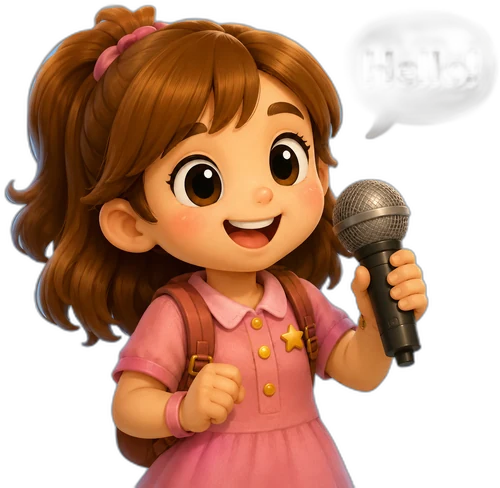
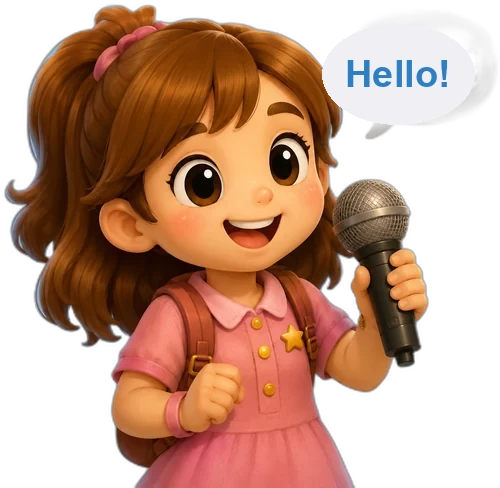
guide微調:slide1 5人放大拉開間距+右下換MissVega縮小;slide2加標題2+圖示下拉放大+副標+Speak泡泡Hello+MissVega講話;slide3 coco縮小+泡泡離開Ruby;重整記住當前slide(sessionStorage);多比例本機驗證

Changed region(s): [[0.63, 0.0922, 0.9, 0.2152], [0.75, 0.2459, 0.78, 0.2766]]

diff --git a/src/app/guide/GuideSlides.tsx b/src/app/guide/GuideSlides.tsx
@@ -1,5 +1,5 @@
 'use client';
-import { useState, useRef } from 'react';
+import { useState, useRef, useEffect } from 'react';
 import Link from 'next/link';
 import { useRouter } from 'next/navigation';
 import { playClick, playStar } from '@/lib/sfx';
@@ -10,11 +10,11 @@ const N = HEIGHTS.length;
 
 // slide 3「認識夥伴」：5 隻動物依序放進 紫/藍/粉/綠/黃 框
 const FRIENDS = [
-  { key: 'finn',  name: 'Finn',  trait: '勇敢探險隊長', cx: 16.6 },
-  { key: 'coco',  name: 'Coco',  trait: '聽力小高手',   cx: 32.5 },
-  { key: 'polly', name: 'Polly', trait: '口說小達人',   cx: 48.3 },
-  { key: 'benny', name: 'Benny', trait: '閱讀小博士',   cx: 64.0 },
-  { key: 'ruby',  name: 'Ruby',  trait: '寫作小天才',   cx: 79.9 },
+  { key: 'finn',  name: 'Finn',  trait: '勇敢探險隊長', cx: 16.6, sc: 1 },
+  { key: 'coco',  name: 'Coco',  trait: '聽力小高手',   cx: 32.5, sc: 0.86 },
+  { key: 'polly', name: 'Polly', trait: '口說小達人',   cx: 48.3, sc: 1 },
+  { key: 'benny', name: 'Benny', trait: '閱讀小博士',   cx: 64.0, sc: 1 },
+  { key: 'ruby',  name: 'Ruby',  trait: '寫作小天才',   cx: 79.9, sc: 1 },
 ];
 
 // slide 2「How You'll Learn」：4 個學習步驟圖示進框
@@ -27,17 +27,26 @@ const STEPS = [
 
 // slide 1「Welcome」：中間站 5 個玩家角色（人類），混一些 happy 表情
 const PLAYERS = [
-  { slug: 'elly', pose: '-happy', cx: 36 },
-  { slug: 'sky',  pose: '',       cx: 44 },
+  { slug: 'elly', pose: '-happy', cx: 30 },
+  { slug: 'sky',  pose: '',       cx: 41 },
   { slug: 'coco', pose: '-happy', cx: 52 },
-  { slug: 'leo',  pose: '',       cx: 60 },
-  { slug: 'vera', pose: '-happy', cx: 68 },
+  { slug: 'leo',  pose: '',       cx: 63 },
+  { slug: 'vera', pose: '-happy', cx: 74 },
 ];
 
 export default function GuideSlides() {
   const [i, setI] = useState(0);
   const router = useRouter();
   const touchX = useRef<number | null>(null);
+
+  // 重整後留在同一頁（sessionStorage）
+  useEffect(() => {
+    const s = sessionStorage.getItem('ae_guide_slide');
+    if (s !== null) setI(Math.min(N - 1, Number(s)));
+  }, []);
+  useEffect(() => {
+    sessionStorage.setItem('ae_guide_slide', String(i));
+  }, [i]);
 
   function go(n: number) {
     const x = Math.max(0, Math.min(N - 1, n));
@@ -79,36 +88,54 @@ export default function GuideSlides() {
                     <button onClick={() => go(i + 1)} className="rounded-full bg-gradient-to-b from-amber-400 to-orange-500 text-white font-black shadow-lg active:scale-95 hover:from-amber-500" style={{ fontSize: 'clamp(13px,1.8vw,24px)', padding: '0.4em 1.4em' }}>Start ▶</button>
                   </div>
                   {PLAYERS.map(p => (
-                    <div key={p.slug} className="absolute flex items-end justify-center" style={{ left: `${p.cx}%`, bottom: '5%', width: '11%', height: '30%', transform: 'translateX(-50%)' }}>
+                    <div key={p.slug} className="absolute flex items-end justify-center" style={{ left: `${p.cx}%`, bottom: '5%', width: '11%', height: '35%', transform: 'translateX(-50%)' }}>
                       <img src={`/images/avatars/${p.slug}${p.pose}.webp`} alt="" className="max-w-full max-h-full object-contain object-bottom drop-shadow-[0_5px_6px_rgba(60,40,90,0.3)]" />
                     </div>
                   ))}
-                  <div className="absolute" style={{ right: '2%', bottom: '4%', width: '9.5%' }}>
-                    <div className="absolute" style={{ right: '52%', bottom: '58%', width: '175%' }}>
-                      <div className="relative">
-                        <img src="/images/guide/intro-conversation1.webp" alt="" className="w-full" />
-                        <p className="absolute inset-0 flex items-center justify-center text-center font-black text-amber-800 px-[14%] pb-[8%]" style={{ fontSize: 'clamp(8px,1vw,14px)' }}>歡迎來到<br />我們的學校！</p>
-                      </div>
+                  {/* Miss Vega 嚮導講話（右下，較小） */}
+                  <img src="/characters/vega/vega-talk.png" alt="Vega" className="absolute object-contain object-bottom drop-shadow-[0_6px_8px_rgba(60,40,90,0.35)]" style={{ right: '1.5%', bottom: '3%', width: '8%' }} />
+                  <div className="absolute" style={{ right: '2%', bottom: '42%', width: '15%' }}>
+                    <div className="relative">
+                      <img src="/images/guide/intro-conversation1.webp" alt="" className="w-full" />
+                      <p className="absolute inset-0 flex items-center justify-center text-center font-black text-amber-800 px-[13%] pb-[8%]" style={{ fontSize: 'clamp(8px,1vw,14px)' }}>歡迎來到<br />我們的學校！</p>
                     </div>
-                    <img src="/images/avatars/vera.webp" alt="Vega" className="w-full object-contain object-bottom drop-shadow-[0_6px_8px_rgba(60,40,90,0.35)]" />
                   </div>
                 </>
               )}
 
-              {/* slide 2：How You'll Learn（4 個學習步驟圖示） */}
+              {/* slide 2：How You'll Learn（標題 + 4 步驟圖示 + 底部副標 + Vega 講話） */}
               {idx === 1 && (
                 <>
+                  {/* 標題 */}
+                  <div className="absolute left-1/2 -translate-x-1/2 flex items-center gap-2" style={{ top: '6%' }}>
+                    <span className="inline-flex w-8 h-8 sm:w-10 sm:h-10 rounded-full bg-green-500 text-white font-black items-center justify-center" style={{ fontSize: 'clamp(14px,1.8vw,24px)' }}>2</span>
+                    <h2 className="font-black text-amber-900" style={{ fontSize: 'clamp(18px,2.7vw,40px)' }}>How You&apos;ll <span className="text-green-600">Learn</span></h2>
+                  </div>
+                  {/* 4 圖示（下拉、放大、貼近底色條） */}
                   {STEPS.map(s => (
-                    <div key={s.img} className="absolute flex items-center justify-center" style={{ left: `${s.cx}%`, top: '30%', width: '16%', height: '28%', transform: 'translateX(-50%)' }}>
-                      <img src={`/images/guide/${s.img}.webp`} alt={s.en} className="max-w-[82%] max-h-full object-contain drop-shadow-[0_5px_6px_rgba(60,40,90,0.25)]" />
+                    <div key={s.img} className="absolute flex items-end justify-center" style={{ left: `${s.cx}%`, top: '28%', width: '16%', height: '34%', transform: 'translateX(-50%)' }}>
+                      <img src={`/images/guide/${s.img}.webp`} alt={s.en} className="max-w-[92%] max-h-full object-contain object-bottom drop-shadow-[0_5px_6px_rgba(60,40,90,0.25)]" />
                     </div>
                   ))}
+                  {/* 標籤 */}
                   {STEPS.map(s => (
                     <div key={`l-${s.img}`} className="absolute text-center leading-tight" style={{ left: `${s.cx}%`, top: '62.5%', width: '18%', transform: 'translateX(-50%)' }}>
                       <p className="text-white font-black" style={{ fontSize: 'clamp(11px,1.5vw,20px)', textShadow: '0 1px 2px rgba(0,0,0,.28)' }}>{s.en}</p>
                       <p className="text-white/95 font-bold" style={{ fontSize: 'clamp(9px,1.1vw,14px)' }}>{s.zh}</p>
                     </div>
                   ))}
+                  {/* 底部副標 */}
+                  <p className="absolute left-1/2 -translate-x-1/2 text-center font-bold text-amber-900" style={{ bottom: '5%', fontSize: 'clamp(10px,1.5vw,20px)', textShadow: '0 1px 2px rgba(255,255,255,.5)' }}>
+                    每堂課只要 <span className="text-orange-500">5–10 分鐘</span>，學習超好玩！
+                  </p>
+                  {/* 右下 Miss Vega 講話 + 泡泡 */}
+                  <img src="/characters/vega/vega-talk.png" alt="Vega" className="absolute object-contain object-bottom drop-shadow-[0_6px_8px_rgba(60,40,90,0.35)]" style={{ right: '1%', bottom: '2%', width: '8.5%' }} />
+                  <div className="absolute" style={{ right: '1.5%', bottom: '42%', width: '15%' }}>
+                    <div className="relative">
+                      <img src="/images/guide/intro-conversation1.webp" alt="" className="w-full" />
+                      <p className="absolute inset-0 flex items-center justify-center text-center font-black text-amber-800 px-[13%] pb-[8%]" style={{ fontSize: 'clamp(8px,1vw,14px)' }}>一起來<br />學習吧！</p>
+                    </div>
+                  </div>
                 </>
               )}
 
@@ -118,7 +145,8 @@ export default function GuideSlides() {
                   {FRIENDS.map(f => (
                     <div key={f.key} className="absolute flex items-end justify-center" style={{ left: `${f.cx}%`, top: '20%', width: '13%', height: '44%', transform: 'translateX(-50%)' }}>
                       <img src={`/characters/${f.key}/${f.key}-wave.png`} alt={f.name}
-                        className="max-w-full max-h-full object-contain object-bottom drop-shadow-[0_5px_6px_rgba(60,40,90,0.3)]" />
+                        className="max-w-full max-h-full object-contain object-bottom drop-shadow-[0_5px_6px_rgba(60,40,90,0.3)]"
+                        style={{ transform: `scale(${f.sc})`, transformOrigin: 'bottom center' }} />
                     </div>
                   ))}
                   {/* 名字 + 特質（框底色條上） */}
@@ -133,7 +161,7 @@ export default function GuideSlides() {
                     className="absolute object-contain object-bottom drop-shadow-[0_6px_8px_rgba(60,40,90,0.35)]"
                     style={{ right: '1%', bottom: '2%', width: '9%' }} />
                   {/* 對話泡泡（右上，不擋 Ruby） */}
-                  <div className="absolute" style={{ right: '1.5%', bottom: '44%', width: '16%' }}>
+                  <div className="absolute" style={{ right: '0.5%', bottom: '47%', width: '12.5%' }}>
                     <div className="relative">
                       <img src="/images/guide/intro-conversation.webp" alt="" className="w-full" />
                       <p className="absolute inset-0 flex items-center justify-center text-center font-black text-pink-500 px-[15%] pb-[8%]" style={{ fontSize: 'clamp(9px,1.1vw,15px)' }}>
